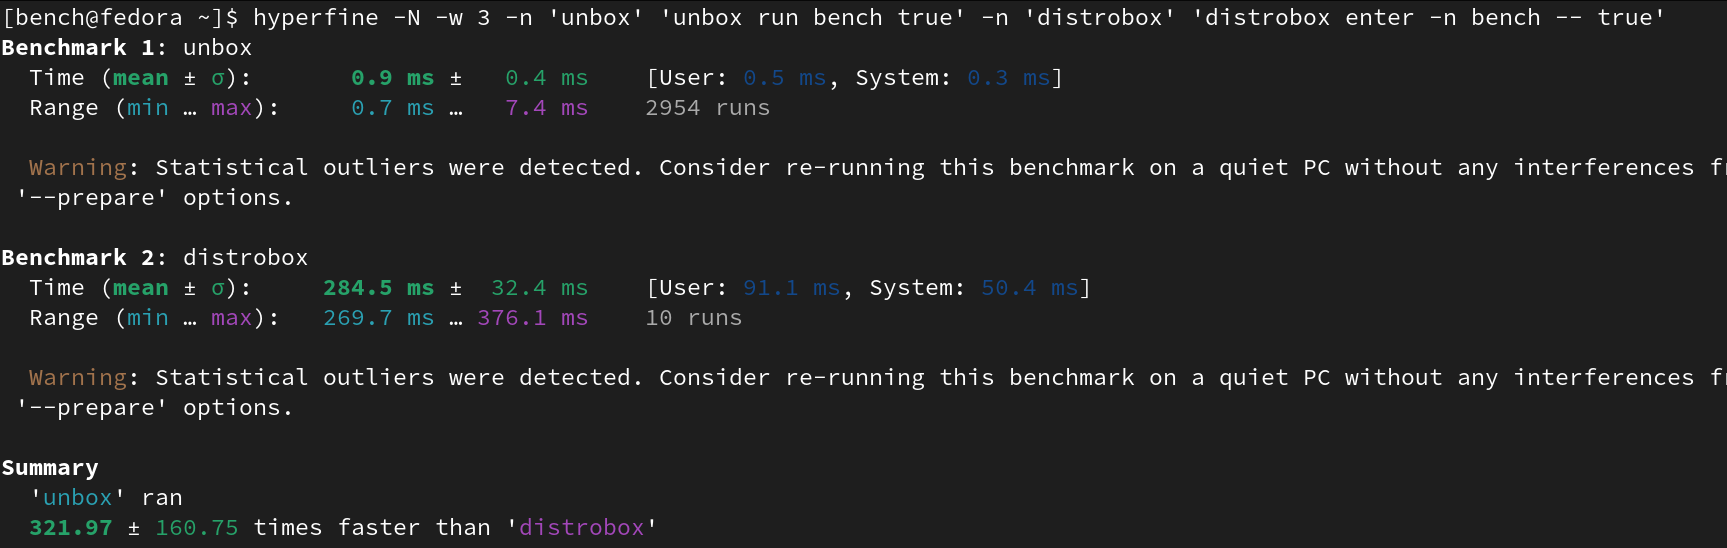
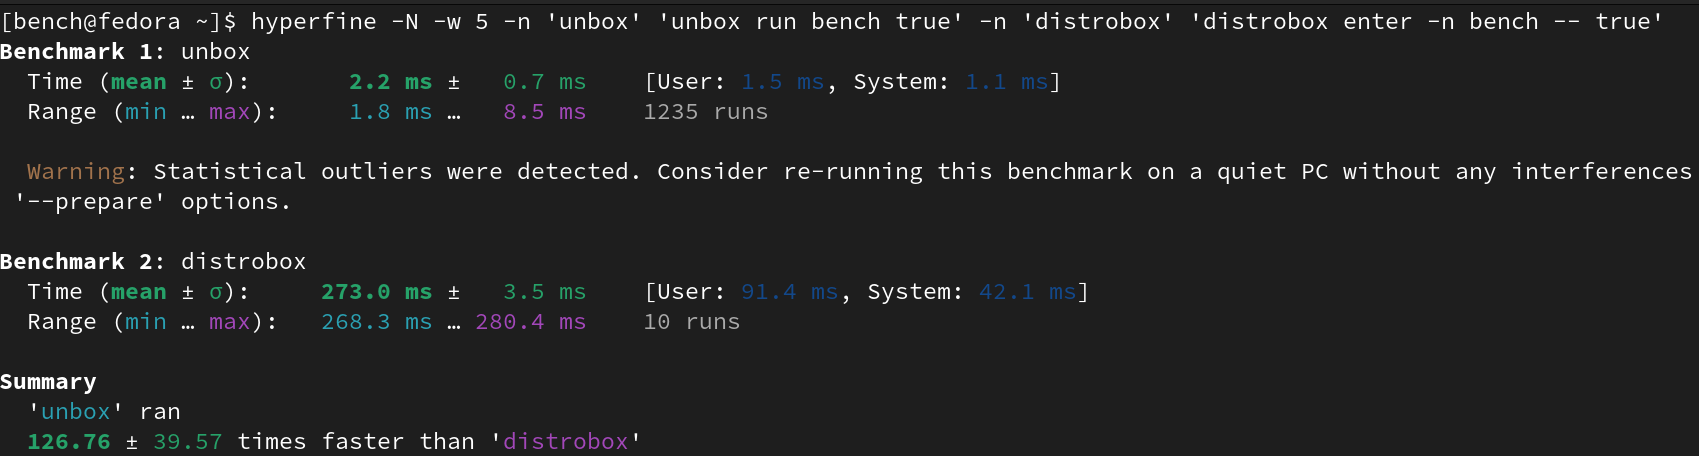
Updated benchmarks with latest versions of the different implementations

diff --git a/README.md b/README.md
@@ -121,11 +121,11 @@ or lose accuracy with new developments in each of the different implementations.
 
 | Implementation                                       | Language | Based on             | Image                  | Time to enter |
 |------------------------------------------------------|----------|----------------------|------------------------|---------------|
-| [`toolbx`](https://github.com/containers/toolbox)    | Go       | `podman`             | OCI images             | 837 ms        |
-| [`distrobox`](https://github.com/89luca89/distrobox) | Shell    | `podman` or `docker` | OCI images             | 284 ms        |
+| [`toolbx`](https://github.com/containers/toolbox)    | Go       | `podman`             | OCI images             | 830 ms        |
+| [`distrobox`](https://github.com/89luca89/distrobox) | Shell    | `podman` or `docker` | OCI images             | 273 ms        |
 | [`nsbox`](https://github.com/refi64/nsbox)           | Go       | `systemd-nspawn`     | Ansible                | --- ms        |
 | [`devbox`](https://github.com/jetpack-io/devbox)     | Go       | `nix-shell`          | -                      | --- ms        |
-| [`unbox`](https://github.com/lopukhov/unbox)         | Rust     | -                    | OCI images or tarballs | 1 ms          |
+| [`unbox`](https://github.com/lopukhov/unbox)         | Rust     | -                    | OCI images or tarballs | 2 ms          |
 
 For the source of the "Time to enter" metric check [here](BENCH.md)
 
